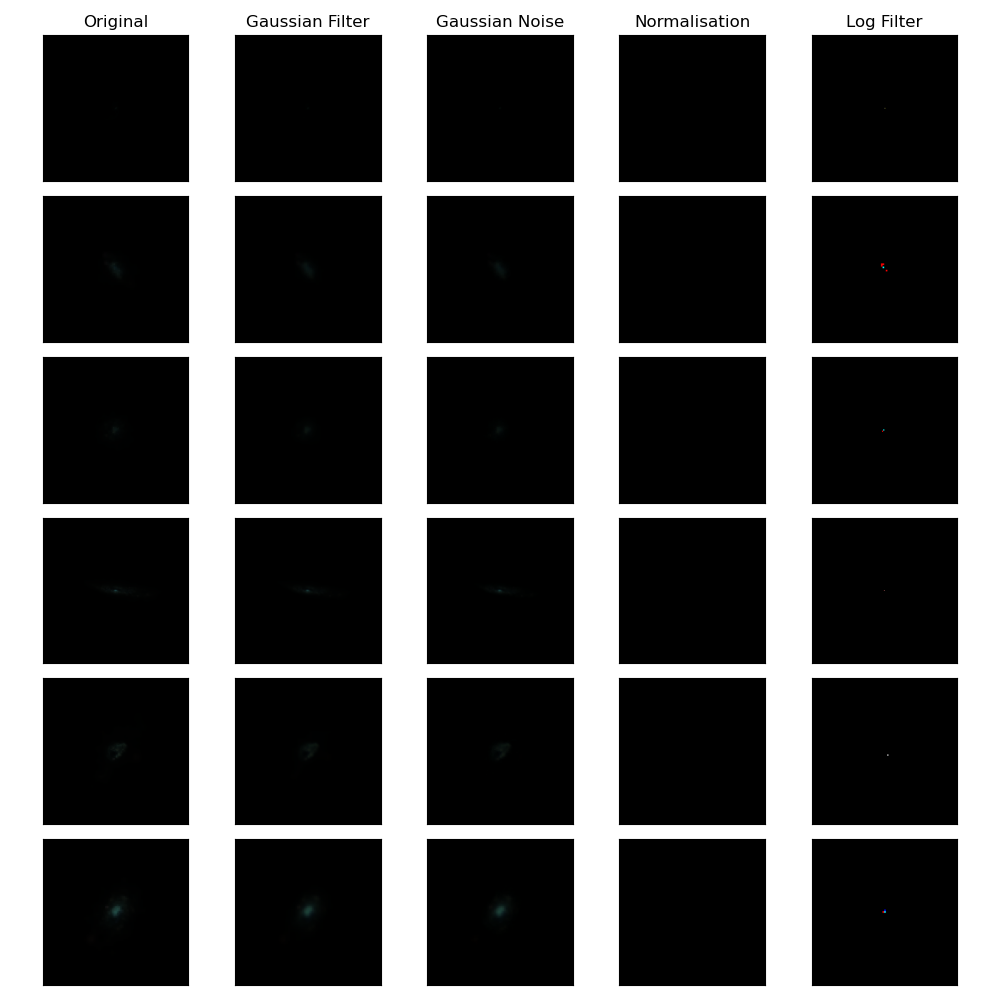
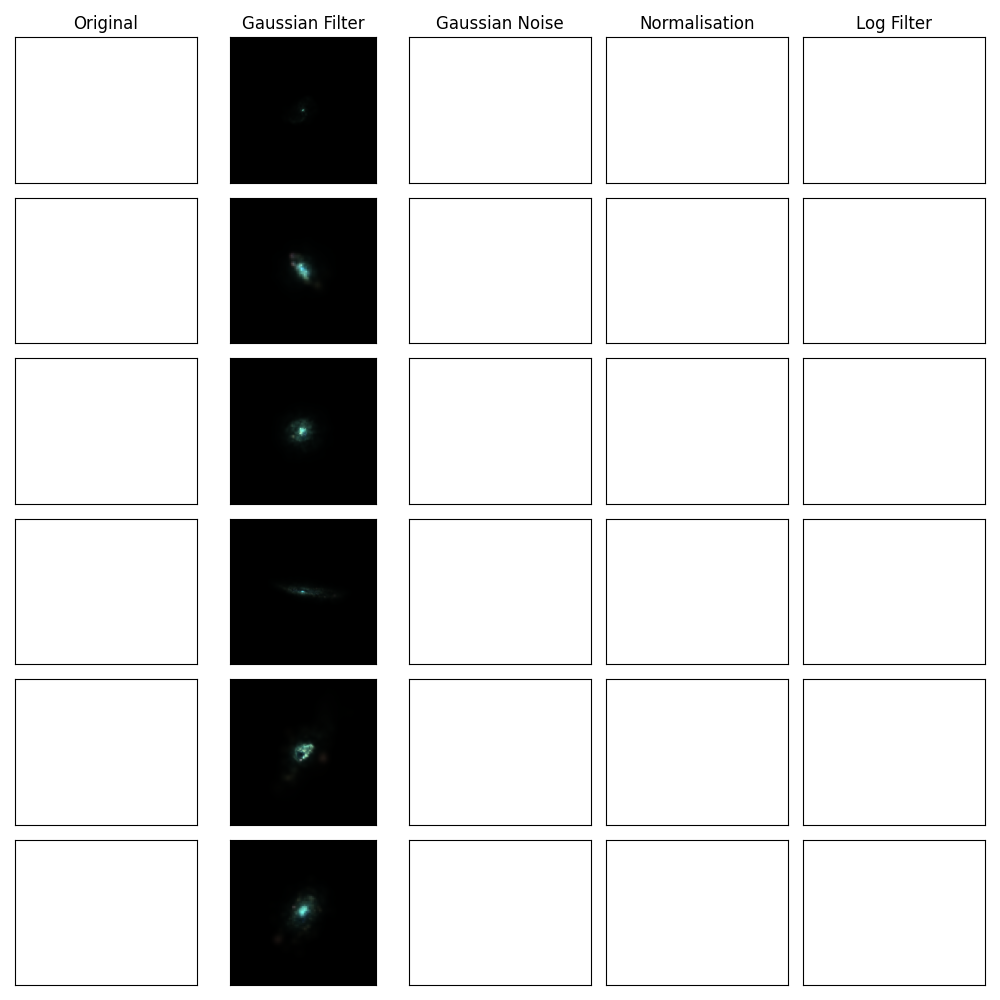
Code

diff --git a/tng_image_processing.py b/tng_image_processing.py
@@ -28,7 +28,6 @@ for j, image_name in enumerate(images):
     image = hdu_list[0].data
     image = image[0:3]
 
-    image = np.int32(np.array(image).round())
 
     print(np.array(image).shape)
 
@@ -36,7 +35,8 @@ for j, image_name in enumerate(images):
     print(image[1].max())
     print(image[2].max())
 
-    axs[j][0].imshow(np.array(image).T)
+    # axs[j][0].imshow(np.array(image).T)
+    axs[j][1].imshow(((np.array(image)/np.max(image)).T))
 
 
     def fwhm_to_sigma(fwhm):
@@ -47,7 +47,7 @@ for j, image_name in enumerate(images):
     image[2] = gaussian_filter(image[2], sigma=fwhm_to_sigma(2))
 
 
-    axs[j][1].imshow(np.array(image).T)
+    # axs[j][1].imshow(np.array(image).T)
 
 
     gaussian = np.random.normal(0, 0.1, (len(image[0]), len(image[0])))
@@ -56,14 +56,14 @@ for j, image_name in enumerate(images):
         image[i] = image[i] + gaussian
 
 
-    axs[j][2].imshow(np.array(image).T)
+    # axs[j][2].imshow(np.array(image).T)
 
     # normalisation and log filter
     for i in range(0, 3):
         image[i] = image[i]/image[i].max()
         # image[i] = np.log10(image[i]) + 1
 
-    axs[j][3].imshow(np.array(image).T)
+    # axs[j][3].imshow(np.array(image).T)
 
 
     for i in range(0, 3):
@@ -71,7 +71,7 @@ for j, image_name in enumerate(images):
 
     image = np.float32(image)
 
-    axs[j][4].imshow(np.array(image).T)
+    # axs[j][4].imshow(np.array(image).T)
 
 fig.tight_layout()
 plt.savefig("Variational TNG/Plots/Image Processing")

diff --git a/test.py b/test.py
@@ -1,6 +1,25 @@
 import numpy as np
 import pandas as pd
+from matplotlib import pyplot as plt
+
+# A = [[[[1], [2], [3]], [[1], [2], [3]], [[1], [2], [3]]],
+#      [[[1], [2], [3]], [[1], [2], [3]], [[1], [2], [3]]],
+#      [[[1], [2], [3]], [[1], [2], [3]], [[1], [2], [3]]]]
+
+A = [[[1, 2, 3, 4, 5], [1, 2, 3, 4, 5], [1, 2, 3, 4, 5]],
+     [[1, 2, 3, 4, 5], [1, 2, 3, 4, 5], [1, 2, 3, 4, 5]],
+     [[1, 2, 3, 4, 5], [1, 2, 3, 4, 5], [1, 2, 3, 4, 5]]]
 
 
+print(np.array(A).shape)
 
-print("Hello")
+print(max(max(max(row) for row in A)))
+
+print(np.max(A))
+
+# print(np.array(A)/max(max(max(row) for row in A)))
+print(np.array(A)/np.max(A).T)
+
+plt.imshow((np.array(A)/max(max(max(row) for row in A))).T)
+
+plt.show()

diff --git a/eagle_vs_tng.py b/eagle_vs_tng.py
@@ -12,11 +12,11 @@ path = baseUrl + "TNG100-1/"
 r = requests.get(path, params=None, headers=headers)
 data = r.json()
 
-print(data["mass_dm"])
+# print(data["mass_dm"])
 
 # print(type(r))
 
-# print(data.keys())
+print(data.keys())
 
 # for i in range(len(data['simulations'])):
 #     print(data['simulations'][i])
